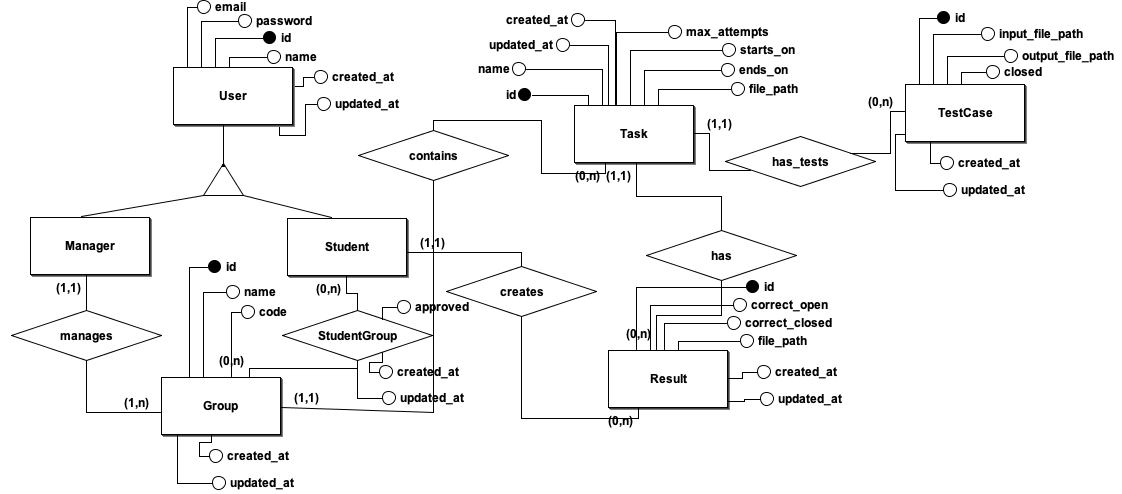
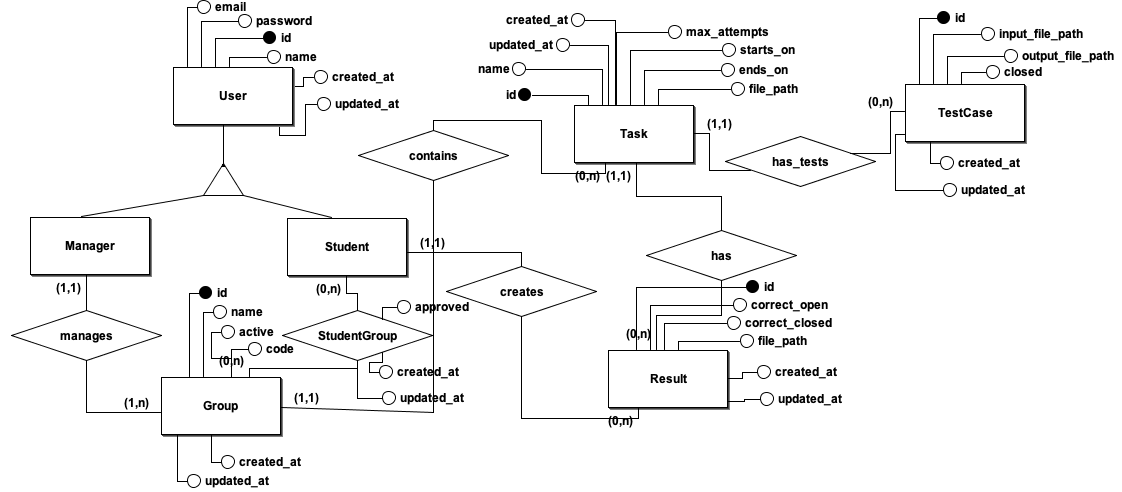
Add active on Group

diff --git a/code/repository/dto/group.py b/code/repository/dto/group.py
@@ -1,5 +1,5 @@
 from repository.base import Base
-from sqlalchemy import Column, Integer, Sequence, String, ForeignKey, DateTime
+from sqlalchemy import Column, Integer, Sequence, String, ForeignKey, DateTime, Boolean
 from sqlalchemy.orm import relationship
 from sqlalchemy.sql import func
 from repository.dto.student_group import student_group
@@ -8,6 +8,7 @@ class GroupDTO(Base):
     __tablename__ = 'group'
 
     id = Column(Integer, Sequence('sq_group_pk'), primary_key=True, autoincrement=True)
+    active = Column(Boolean, nullable=False, default=True)
     name = Column(String, nullable=False)
     code = Column(String(6), nullable=False)
     manager_id = Column(Integer, ForeignKey('manager.id'), nullable=False)
